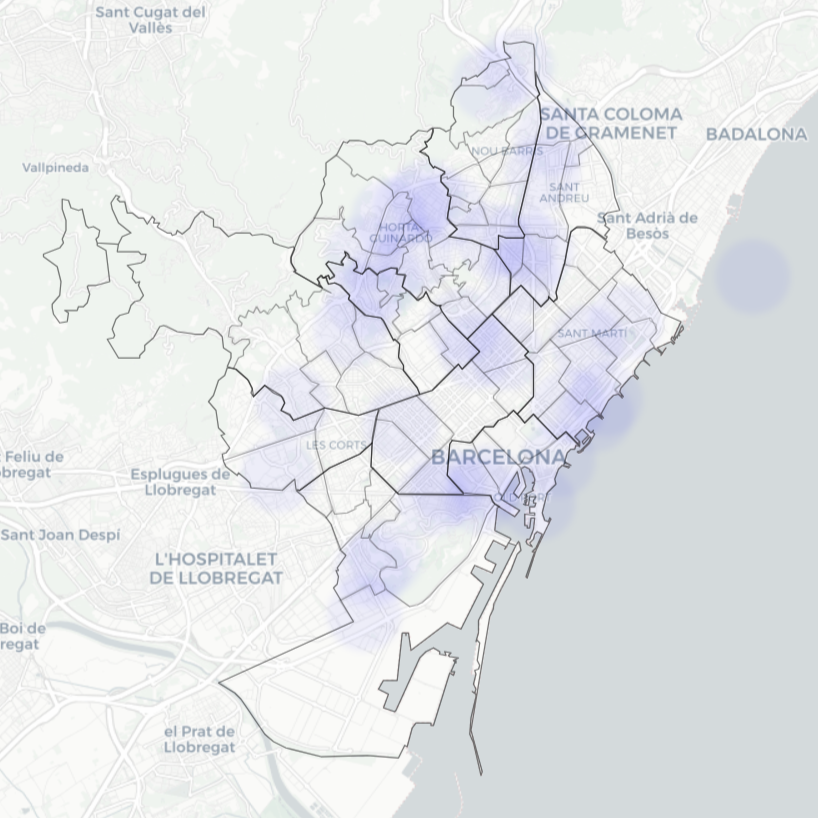
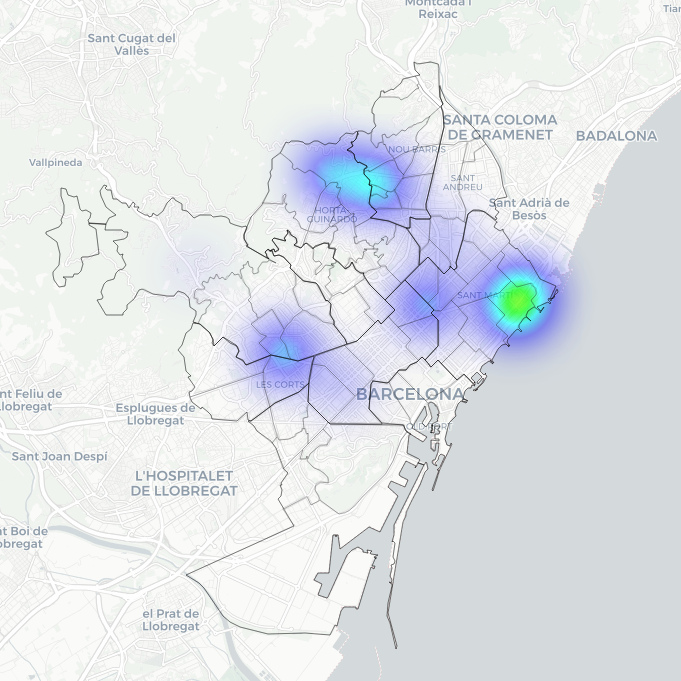
heat

diff --git a/index.html b/index.html
@@ -95,9 +95,9 @@
 
             <div class="project" data-href="maps/equipamentEsport.html" style="background-image: url(./images/barcelonaMaps\ \(3\).png); cursor: pointer;">
                 <div class="portfolioTextDiv">
-                    <span>Barcelona sports equipament</span>
+                    <span>Barcelona roadside Tree</span>
                     <div class="buttonPortfolio">
-                        <a href="maps/equipamentEsport.html" class="full-link">Heat</a>
+                        <a href="maps/arbratViari.html" class="full-link">Heat</a>
                     </div>
                 </div>
             </div>
@@ -125,7 +125,7 @@
         <div class="pricingBlocks">
 
             <div class="pricingBlock">
-                <img src="./images/singleMarker.jpg" alt="image" style="height: 15vh;">
+                <img src="./images/singleMarker.png" alt="image" style="height: 15vh;">
                 <h1>Single Marker</h1>
                 <p class="note">Includes a custom location marker with comprehensive details such as schedules, addresses, and more. Plus, enjoy fully interactive features tailored to your specific needs.</p>
                 <div class="price"><p>50€+<span style="font-size: 2vh;">CAD</span></p></div>
@@ -141,7 +141,7 @@
             </div>
 
             <div class="pricingBlock">
-                <img src="./images/choropleth.jpg" alt="image" style="height: 15vh;">
+                <img src="./images/choropleth.jpg" alt="IMAGE" style="height: 15vh;">
                 <h1>Analytics</h1>
                 <p class="note">From choropleth maps to heat maps, we offer powerful tools for analyzing geolocation data, helping you make informed and strategic business decisions.</p>
                 <div class="price"><p>400€+<span style="font-size: 2vh;">CAD</span></p></div>

diff --git a/maps/arbratViari.html b/maps/arbratViari.html
@@ -29,10 +29,10 @@
     </style>
 </head>
 
-<script type="text/javascript" src="./densitatPoblació.js"></script>
 <body>
     <div id="map"></div>
 
+    <script src="./densitatPoblació.js"></script>
     <script>
         const map = L.map('map').setView([41.3851, 2.1734], 12);
 
@@ -41,7 +41,7 @@
         }).addTo(map);
 
         // Fetch the JSON data dynamically
-        fetch('esport.json')
+        fetch('arbratViari.json')
             .then(response => response.json())
             .then(data => {
                 // Extract the records from the JSON structure
@@ -49,16 +49,16 @@
 
                 // Map the data to extract coordinates for the heatmap
                 const heatPoints = records.map(item => [
-                    parseFloat(item.geo_epgs_4326_lat),
-                    parseFloat(item.geo_epgs_4326_lon),
-                    0.5 // intensity
+                    parseFloat(item.latitud),
+                    parseFloat(item.longitud),
+                    1 // intensity
                 ]);
 
                 // Create the heatmap layer
                 L.heatLayer(heatPoints, {
-                    radius: 30,
-                    blur: 5,
-                    maxZoom: 19,
+                    radius: 25,
+                    blur: 45,
+                    maxZoom: 15,
                 }).addTo(map);
             })
             .catch(error => console.error('Error loading the data:', error));

diff --git a/maps/refugisCalor.html b/maps/refugisCalor.html
@@ -33,6 +33,15 @@
             left: 0.0%;
             top: 0.0%;
         }
+
+        /* Force the layer control to be always visible */
+        .leaflet-control-layers-expanded {
+            display: block !important; /* Force the panel to be expanded */
+            font-size: 16px; /* Increase font size */
+            padding: 10px; /* Increase padding */
+            width: 200px; /* Increase width */
+        }
+
     </style>
 
 </head>
@@ -163,7 +172,9 @@
         };
 
         // Add layer control to the map
-        L.control.layers(baseMaps, overlayMaps).addTo(map);
+        var layerControl = L.control.layers(baseMaps, overlayMaps, {
+            collapsed: false  // Ensure the layer control is not collapsible
+        }).addTo(map);
 
         // Fetch and display the districtes data
         fetch('./barcelonaDistrictes.geojson')

diff --git a/css/index.css b/css/index.css
@@ -374,6 +374,7 @@ body {
 .contactSection {
     background-color: #333;
     color: rgb(248, 248, 248);
+    padding-bottom: 5vh;
 }
 
 .contactTitle {
